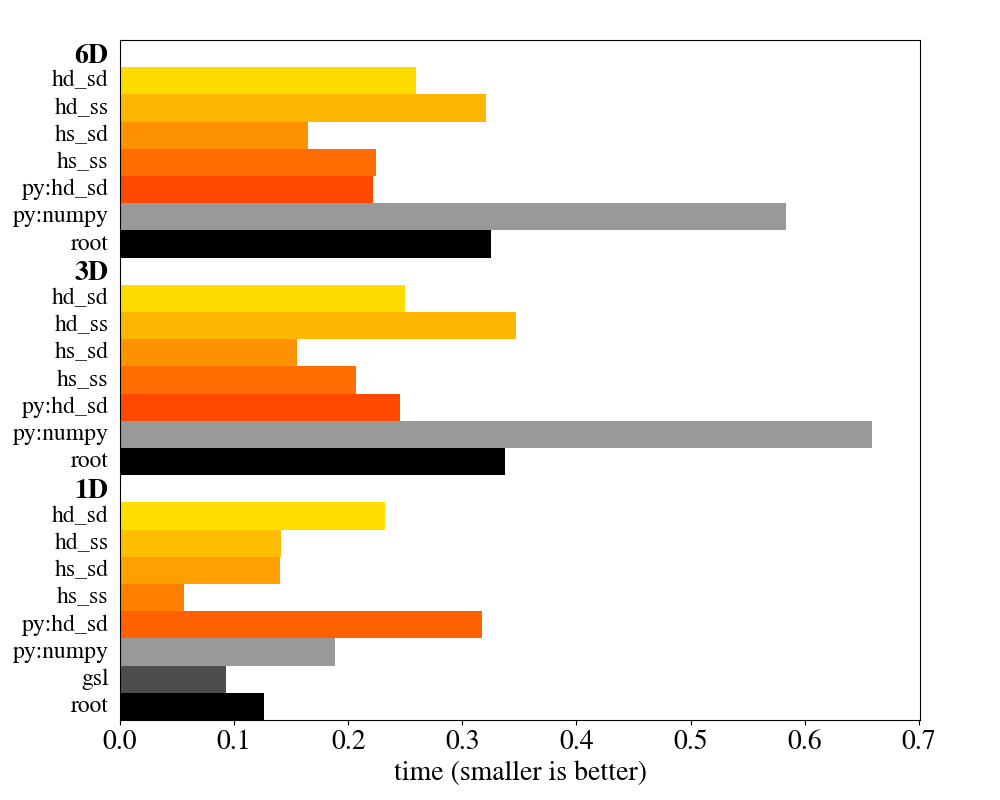
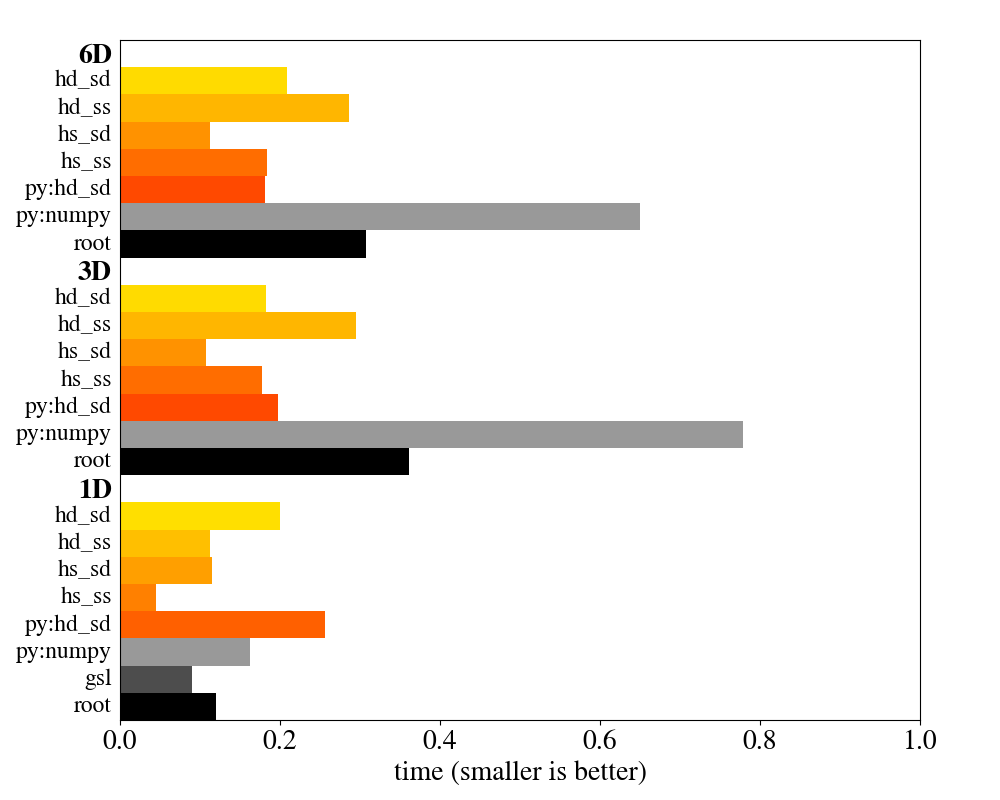
faster and nicer benchmark plot

diff --git a/include/boost/histogram/dynamic_histogram.hpp b/include/boost/histogram/dynamic_histogram.hpp
@@ -31,7 +31,7 @@ namespace histogram {
 template <typename Axes = default_axes, typename Storage = adaptive_storage<>>
 class dynamic_histogram {
   static_assert(!mpl::empty<Axes>::value, "at least one axis required");
-
+  using pairs = std::pair<std::size_t, std::size_t>;
 public:
   using histogram_tag = detail::histogram_tag;
   using axis_type = typename make_variant_over<Axes>::type;
@@ -129,10 +129,9 @@ public:
   template <typename... Values> void fill(Values... values) {
     BOOST_ASSERT_MSG(sizeof...(values) == dim(),
                      "number of arguments does not match histogram dimension");
-    std::size_t out = 0, stride = 1;
-    apply_lin<detail::xlin, Values...>(out, stride, values...);
-    if (stride) {
-      storage_.increase(out);
+    const auto p = apply_lin<detail::xlin, Values...>(pairs(0, 1), values...);
+    if (p.second) {
+      storage_.increase(p.first);
     }
   }
 
@@ -140,10 +139,9 @@ public:
   void fill(Iterator begin, Iterator end) {
     BOOST_ASSERT_MSG(std::distance(begin, end) == dim(),
                      "number of arguments does not match histogram dimension");
-    std::size_t out = 0, stride = 1;
-    apply_lin_iter<detail::xlin>(out, stride, begin);
-    if (stride) {
-      storage_.increase(out);
+    const auto p = apply_lin_iter<detail::xlin>(pairs(0, 1), begin);
+    if (p.second) {
+      storage_.increase(p.first);
     }
   }
 
@@ -154,10 +152,9 @@ public:
                                                           Values... values) {
     BOOST_ASSERT_MSG(sizeof...(values) == dim(),
                      "number of arguments does not match histogram dimension");
-    std::size_t out = 0, stride = 1;
-    apply_lin<detail::xlin, Values...>(out, stride, values...);
-    if (stride) {
-      storage_.increase(out, w);
+    const auto p = apply_lin<detail::xlin, Values...>(pairs(0, 1), values...);
+    if (p.second) {
+      storage_.increase(p.first, w);
     }
   }
 
@@ -168,57 +165,52 @@ public:
   wfill(value_type w, Iterator begin, Iterator end) {
     BOOST_ASSERT_MSG(std::distance(begin, end) == dim(),
                      "number of arguments does not match histogram dimension");
-    std::size_t out = 0, stride = 1;
-    apply_lin_iter<detail::xlin>(out, stride, begin);
-    if (stride) {
-      storage_.increase(out, w);
+    const auto p = apply_lin_iter<detail::xlin>(pairs(0, 1), begin);
+    if (p.second) {
+      storage_.increase(p.first, w);
     }
   }
 
   template <typename... Indices> value_type value(Indices... indices) const {
     BOOST_ASSERT_MSG(sizeof...(indices) == dim(),
                      "number of arguments does not match histogram dimension");
-    std::size_t out = 0, stride = 1;
-    apply_lin<detail::lin, Indices...>(out, stride, indices...);
-    if (stride == 0) {
+    const auto p = apply_lin<detail::lin, Indices...>(pairs(0, 1), indices...);
+    if (p.second == 0) {
       throw std::out_of_range("invalid index");
     }
-    return storage_.value(out);
+    return storage_.value(p.first);
   }
 
   template <typename Iterator, typename = detail::is_iterator<Iterator>>
   value_type value(Iterator begin, Iterator end) const {
     BOOST_ASSERT_MSG(std::distance(begin, end) == dim(),
                      "number of arguments does not match histogram dimension");
-    std::size_t out = 0, stride = 1;
-    apply_lin_iter<detail::lin>(out, stride, begin);
-    if (stride == 0) {
+    const auto p = apply_lin_iter<detail::lin>(pairs(0, 1), begin);
+    if (p.second == 0) {
       throw std::out_of_range("invalid index");
     }
-    return storage_.value(out);
+    return storage_.value(p.first);
   }
 
   template <typename... Indices> value_type variance(Indices... indices) const {
     BOOST_ASSERT_MSG(sizeof...(indices) == dim(),
                      "number of arguments does not match histogram dimension");
-    std::size_t out = 0, stride = 1;
-    apply_lin<detail::lin, Indices...>(out, stride, indices...);
-    if (stride == 0) {
+    const auto p = apply_lin<detail::lin, Indices...>(pairs(0, 1), indices...);
+    if (p.second == 0) {
       throw std::out_of_range("invalid index");
     }
-    return detail::variance(storage_, out);
+    return detail::variance(storage_, p.first);
   }
 
   template <typename Iterator, typename = detail::is_iterator<Iterator>>
   value_type variance(Iterator begin, Iterator end) const {
     BOOST_ASSERT_MSG(std::distance(begin, end) == dim(),
                      "number of arguments does not match histogram dimension");
-    std::size_t out = 0, stride = 1;
-    apply_lin_iter<detail::lin>(out, stride, begin);
-    if (stride == 0) {
+    const auto p = apply_lin_iter<detail::lin>(pairs(0, 1), begin);
+    if (p.second == 0) {
       throw std::out_of_range("invalid index");
     }
-    return detail::variance(storage_, out);
+    return detail::variance(storage_, p.first);
   }
 
   /// Number of axes (dimensions) of histogram
@@ -279,34 +271,35 @@ private:
   }
 
   template <template <class, class> class Lin, typename Value>
-  struct lin_visitor : public static_visitor<void> {
-    std::size_t &out, &stride;
+  struct lin_visitor : public static_visitor<pairs> {
+    mutable pairs pa;
     const Value &val;
-    lin_visitor(std::size_t &o, std::size_t &s, const Value &v)
-        : out(o), stride(s), val(v) {}
-    template <typename A> void operator()(const A &a) const {
-      Lin<A, Value>()(out, stride, a, val);
+    lin_visitor(const pairs& p, const Value &v)
+        : pa(p), val(v) {}
+    template <typename A> pairs operator()(const A &a) const {
+      Lin<A, Value>::apply(pa.first, pa.second, a, val);
+      return pa;
     }
   };
 
   template <template <class, class> class Lin, typename First, typename... Rest>
-  void apply_lin(std::size_t &out, std::size_t &stride, const First &first,
+  pairs apply_lin(pairs&& p, const First &first,
                  const Rest &... rest) const {
-    apply_visitor(lin_visitor<Lin, First>(out, stride, first),
-                  axes_[dim() - 1 - sizeof...(Rest)]);
-    apply_lin<Lin, Rest...>(out, stride, rest...);
+    p = apply_visitor(lin_visitor<Lin, First>(p, first),
+                      axes_[dim() - 1 - sizeof...(Rest)]);
+    return apply_lin<Lin, Rest...>(std::move(p), rest...);
   }
 
   template <template <class, class> class Lin>
-  void apply_lin(std::size_t & /*out*/, std::size_t & /*stride*/) const {}
+  pairs apply_lin(pairs&& p) const { return p; }
 
   template <template <class, class> class Lin, typename Iterator>
-  void apply_lin_iter(std::size_t &out, std::size_t &stride,
-                      Iterator iter) const {
+  pairs apply_lin_iter(pairs&& p, Iterator iter) const {
     for (const auto &a : axes_) {
-      apply_visitor(lin_visitor<Lin, decltype(*iter)>(out, stride, *iter), a);
+      p = apply_visitor(lin_visitor<Lin, decltype(*iter)>(p, *iter), a);
       ++iter;
     }
+    return p;
   }
 
   friend struct storage_access;

diff --git a/include/boost/histogram/static_histogram.hpp b/include/boost/histogram/static_histogram.hpp
@@ -34,6 +34,7 @@ namespace histogram {
 template <typename Axes, typename Storage = adaptive_storage<>>
 class static_histogram {
   static_assert(!mpl::empty<Axes>::value, "at least one axis required");
+  using pairs = std::pair<std::size_t, std::size_t>;
 
 public:
   using histogram_tag = detail::histogram_tag;
@@ -104,10 +105,9 @@ public:
   template <typename... Values> void fill(Values... values) {
     static_assert(sizeof...(values) == dim(),
                   "number of arguments does not match histogram dimension");
-    std::size_t out = 0, stride = 1;
-    apply_lin<detail::xlin, Values...>(out, stride, values...);
-    if (stride) {
-      storage_.increase(out);
+    const auto p = apply_lin<detail::xlin, Values...>(pairs(0, 1), values...);
+    if (p.second) {
+      storage_.increase(p.first);
     }
   }
 
@@ -118,33 +118,30 @@ public:
                                                           Values... values) {
     static_assert(sizeof...(values) == dim(),
                   "number of arguments does not match histogram dimension");
-    std::size_t out = 0, stride = 1;
-    apply_lin<detail::xlin, Values...>(out, stride, values...);
-    if (stride) {
-      storage_.increase(out, w);
+    const auto p = apply_lin<detail::xlin, Values...>(pairs(0, 1), values...);
+    if (p.second) {
+      storage_.increase(p.first, w);
     }
   }
 
   template <typename... Indices> value_type value(Indices... indices) const {
     static_assert(sizeof...(indices) == dim(),
                   "number of arguments does not match histogram dimension");
-    std::size_t out = 0, stride = 1;
-    apply_lin<detail::lin, Indices...>(out, stride, indices...);
-    if (stride == 0) {
+    const auto p = apply_lin<detail::lin, Indices...>(pairs(0, 1), indices...);
+    if (p.second == 0) {
       throw std::out_of_range("invalid index");
     }
-    return storage_.value(out);
+    return storage_.value(p.first);
   }
 
   template <typename... Indices> value_type variance(Indices... indices) const {
     static_assert(sizeof...(indices) == dim(),
                   "number of arguments does not match histogram dimension");
-    std::size_t out = 0, stride = 1;
-    apply_lin<detail::lin, Indices...>(out, stride, indices...);
-    if (stride == 0) {
+    const auto p = apply_lin<detail::lin, Indices...>(pairs(0, 1), indices...);
+    if (p.second == 0) {
       throw std::out_of_range("invalid index");
     }
-    return detail::variance(storage_, out);
+    return detail::variance(storage_, p.first);
   }
 
   /// Number of axes (dimensions) of histogram
@@ -198,17 +195,17 @@ private:
   }
 
   template <template <class, class> class Lin, typename First, typename... Rest>
-  void apply_lin(std::size_t &out, std::size_t &stride, const First &x,
+  pairs apply_lin(pairs&& p, const First &x,
                  const Rest &... rest) const {
     Lin<typename fusion::result_of::value_at_c<
             axes_type, (dim() - 1 - sizeof...(Rest))>::type,
-        First>()(out, stride,
-                 fusion::at_c<(dim() - 1 - sizeof...(Rest))>(axes_), x);
-    apply_lin<Lin, Rest...>(out, stride, rest...);
+        First>::apply(p.first, p.second,
+                      fusion::at_c<(dim() - 1 - sizeof...(Rest))>(axes_), x);
+    return apply_lin<Lin, Rest...>(std::move(p), rest...);
   }
 
   template <template <class, class> class Lin>
-  void apply_lin(std::size_t &out, std::size_t &stride) const {}
+  pairs apply_lin(pairs&& p) const { return p; }
 
   template <typename OtherAxes, typename OtherStorage>
   friend class static_histogram;

diff --git a/doc/benchmark.py b/doc/benchmark.py
@@ -2,7 +2,7 @@ import numpy as np
 import matplotlib.pyplot as plt
 import sys
 import re
-from collections import defaultdict
+from collections import defaultdict, OrderedDict
 from matplotlib.patches import Rectangle
 from matplotlib.text import Text
 from matplotlib.font_manager import FontProperties
@@ -23,23 +23,27 @@ for line in open("perf.dat"):
 		continue
 	label, time = line.strip().split(" ")
 	time = float(time)
-	data[(dim, dist)].append((label, time))
+	data[dim].append((label, dist, time))
 
 plt.figure(figsize=(10, 8))
 plt.subplots_adjust(left=0.12, right=0.92, top=0.95, bottom=0.1)
 x = []
 y = []
 i = 0
-for k in sorted(data):
-	if k[1] == "uniform":
-		continue
-	v = data[k]
+for dim in sorted(data):
+	v = data[dim]
+	v2 = []
+	labels = OrderedDict()
+	for label, dist, time in v:
+		if label in labels:
+			labels[label].append(time)
+		else:
+			labels[label] = [time]
 	j = 0
-	for label, t in v:
-		x.append(t)
+	for label,v in labels.items():
+		tmin, tmax = sorted(v)
 		i -= 1
-		y.append(i)
-		z = float(j) / len(v)
+		z = float(j) / len(labels)
 		col = ((1.0-z) * np.array((1.0, 0.0, 0.0))
 			   + z * np.array((1.0, 1.0, 0.0)))
 		if label == "root":
@@ -48,21 +52,25 @@ for k in sorted(data):
 			col = "0.6"
 		if "gsl" in label:
 			col = "0.3"
-		r = Rectangle((0, i), t, 1, facecolor=col)
+		# r1 = Rectangle((0, i), tmin, 1, facecolor=col, edgecolor="None")
+		# r2 = Rectangle((0, i), tmax, 1, facecolor="None", edgecolor=col)
+		# plt.gca().add_artist(r1)
+		# plt.gca().add_artist(r2)
+		r = Rectangle((0, i), 0.5 * (tmin + tmax), 1, facecolor=col)
+		plt.gca().add_artist(r)
 		tx = Text(-0.01, i+0.5, "%s" % label,
 			      fontsize=17, va="center", ha="right", clip_on=False)
-		plt.gca().add_artist(r)
 		plt.gca().add_artist(tx)
 		j += 1
 	i -= 1
 	font0 = FontProperties()
 	font0.set_size(20)
 	font0.set_weight("bold")
-	tx = Text(-0.01, i+0.6, "%iD" % k[0],
+	tx = Text(-0.01, i+0.6, "%iD" % dim,
 			  fontproperties=font0, va="center", ha="right", clip_on=False)
 	plt.gca().add_artist(tx)
 plt.ylim(0, i)
-plt.xlim(0, 0.701)
+plt.xlim(0, 1.0)
 
 plt.tick_params("y", left="off", labelleft="off")
 plt.xlabel("time (smaller is better)")

diff --git a/include/boost/histogram/detail/utility.hpp b/include/boost/histogram/detail/utility.hpp
@@ -27,7 +27,7 @@ inline void escape(std::ostream &os, const String &s) {
 }
 
 template <typename A, typename> struct lin {
-  void operator()(std::size_t &out, std::size_t &stride, const A &a, int j) {
+  static inline void apply(std::size_t &out, std::size_t &stride, const A &a, int j) {
     // the following is highly optimized code that runs in a hot loop;
     // please measure the performance impact of changes
     const int uoflow = a.uoflow();
@@ -42,7 +42,7 @@ template <typename A, typename> struct lin {
 };
 
 template <typename A, typename T> struct xlin {
-  void operator()(std::size_t &out, std::size_t &stride, const A &a,
+  static inline void apply(std::size_t &out, std::size_t &stride, const A &a,
                   const T &x) {
     // the following is highly optimized code that runs in a hot loop;
     // please measure the performance impact of changes
